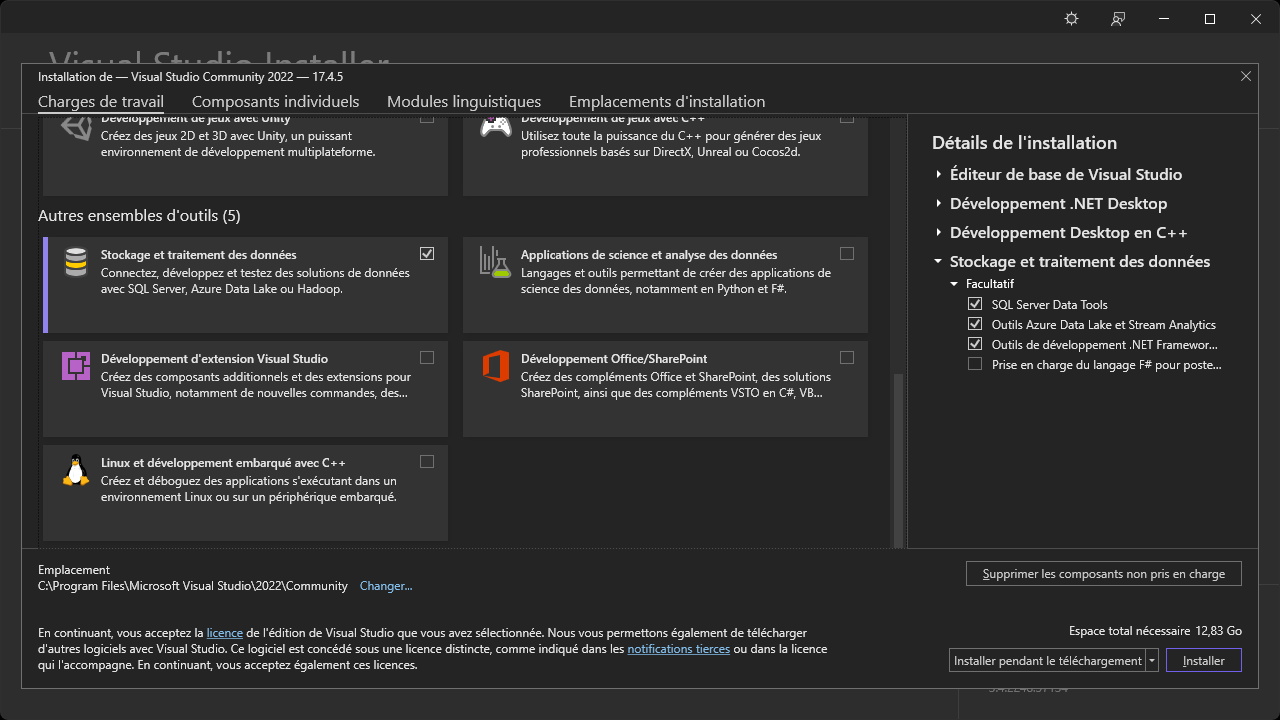
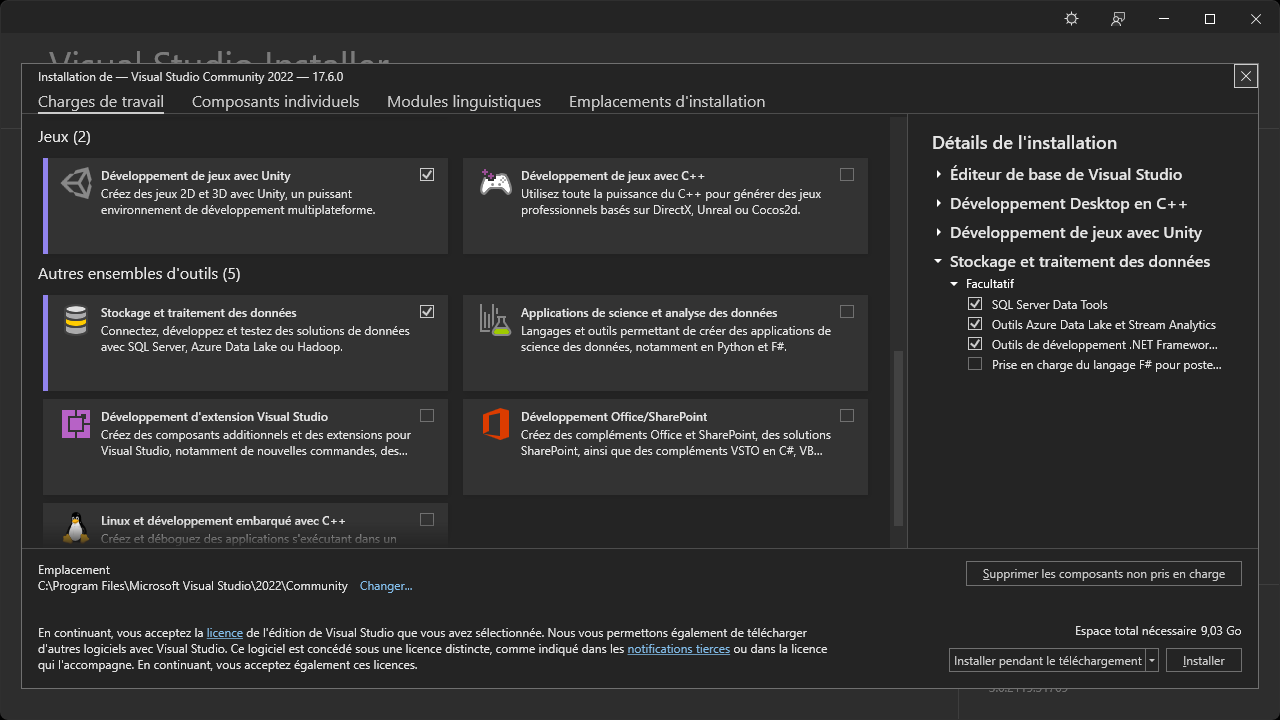
Modification (Visual Studio 2022) - Inclusion de Unity au guide d'installation

diff --git a/Documents/WINVisualStudio.md b/Documents/WINVisualStudio.md
@@ -22,7 +22,7 @@ Cocher les options suivantes de la section « Bureau et mobile » :
 
 ![](../Images/WINVisualStudio3.png)
 
-Cocher les options suivantes de la section « Autres ensembles d'outils » et cliquer sur le bouton « Installer » :
+Cocher les options suivantes des sections « Jeux » et « Autres ensembles d'outils », et cliquer sur le bouton « Installer » :
 
 ![](../Images/WINVisualStudio4.png)
 
